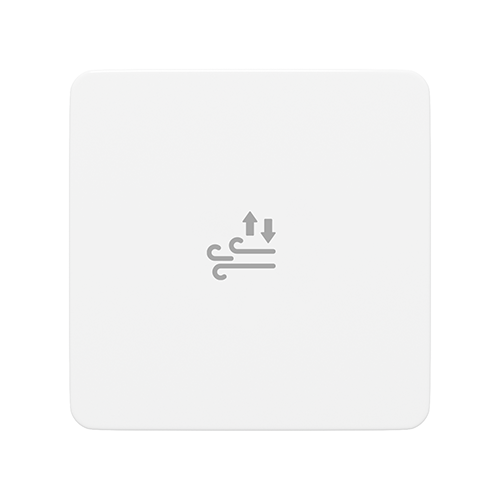
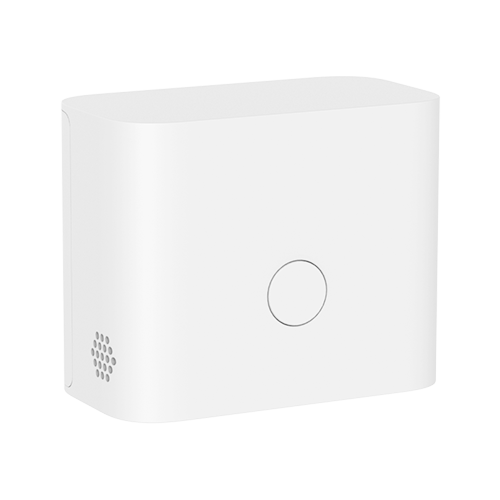
Add the picture of the air quality sensor and update the content of the Readme.

diff --git a/README.md b/README.md
@@ -3,6 +3,12 @@ ThirdReality Devices support without Bridge for Homey
 
 ## Release notes:
 
+### v1.00.24
+- Modify the prompt information for the process of adding the door magnetic sensor
+- Modify the error handling for exceptions in the air pressure sensor code
+- Support air quality sensor
+- In response to the issue raised by users regarding the excessively long trigger duration of the motion sensor and 5.8G radar (url: https://github.com/hwzolin/com.thirdreality.app/issues/39), the cooldown function setting has been added.
+
 ### v1.00.23
 - LAS-14: The name displayed for the air pressure sensor in Homey should be changed to "Smart Filter Sensor".
 - Add the unit "% " to the dirty level of Smart Filter Sensor in Homey.